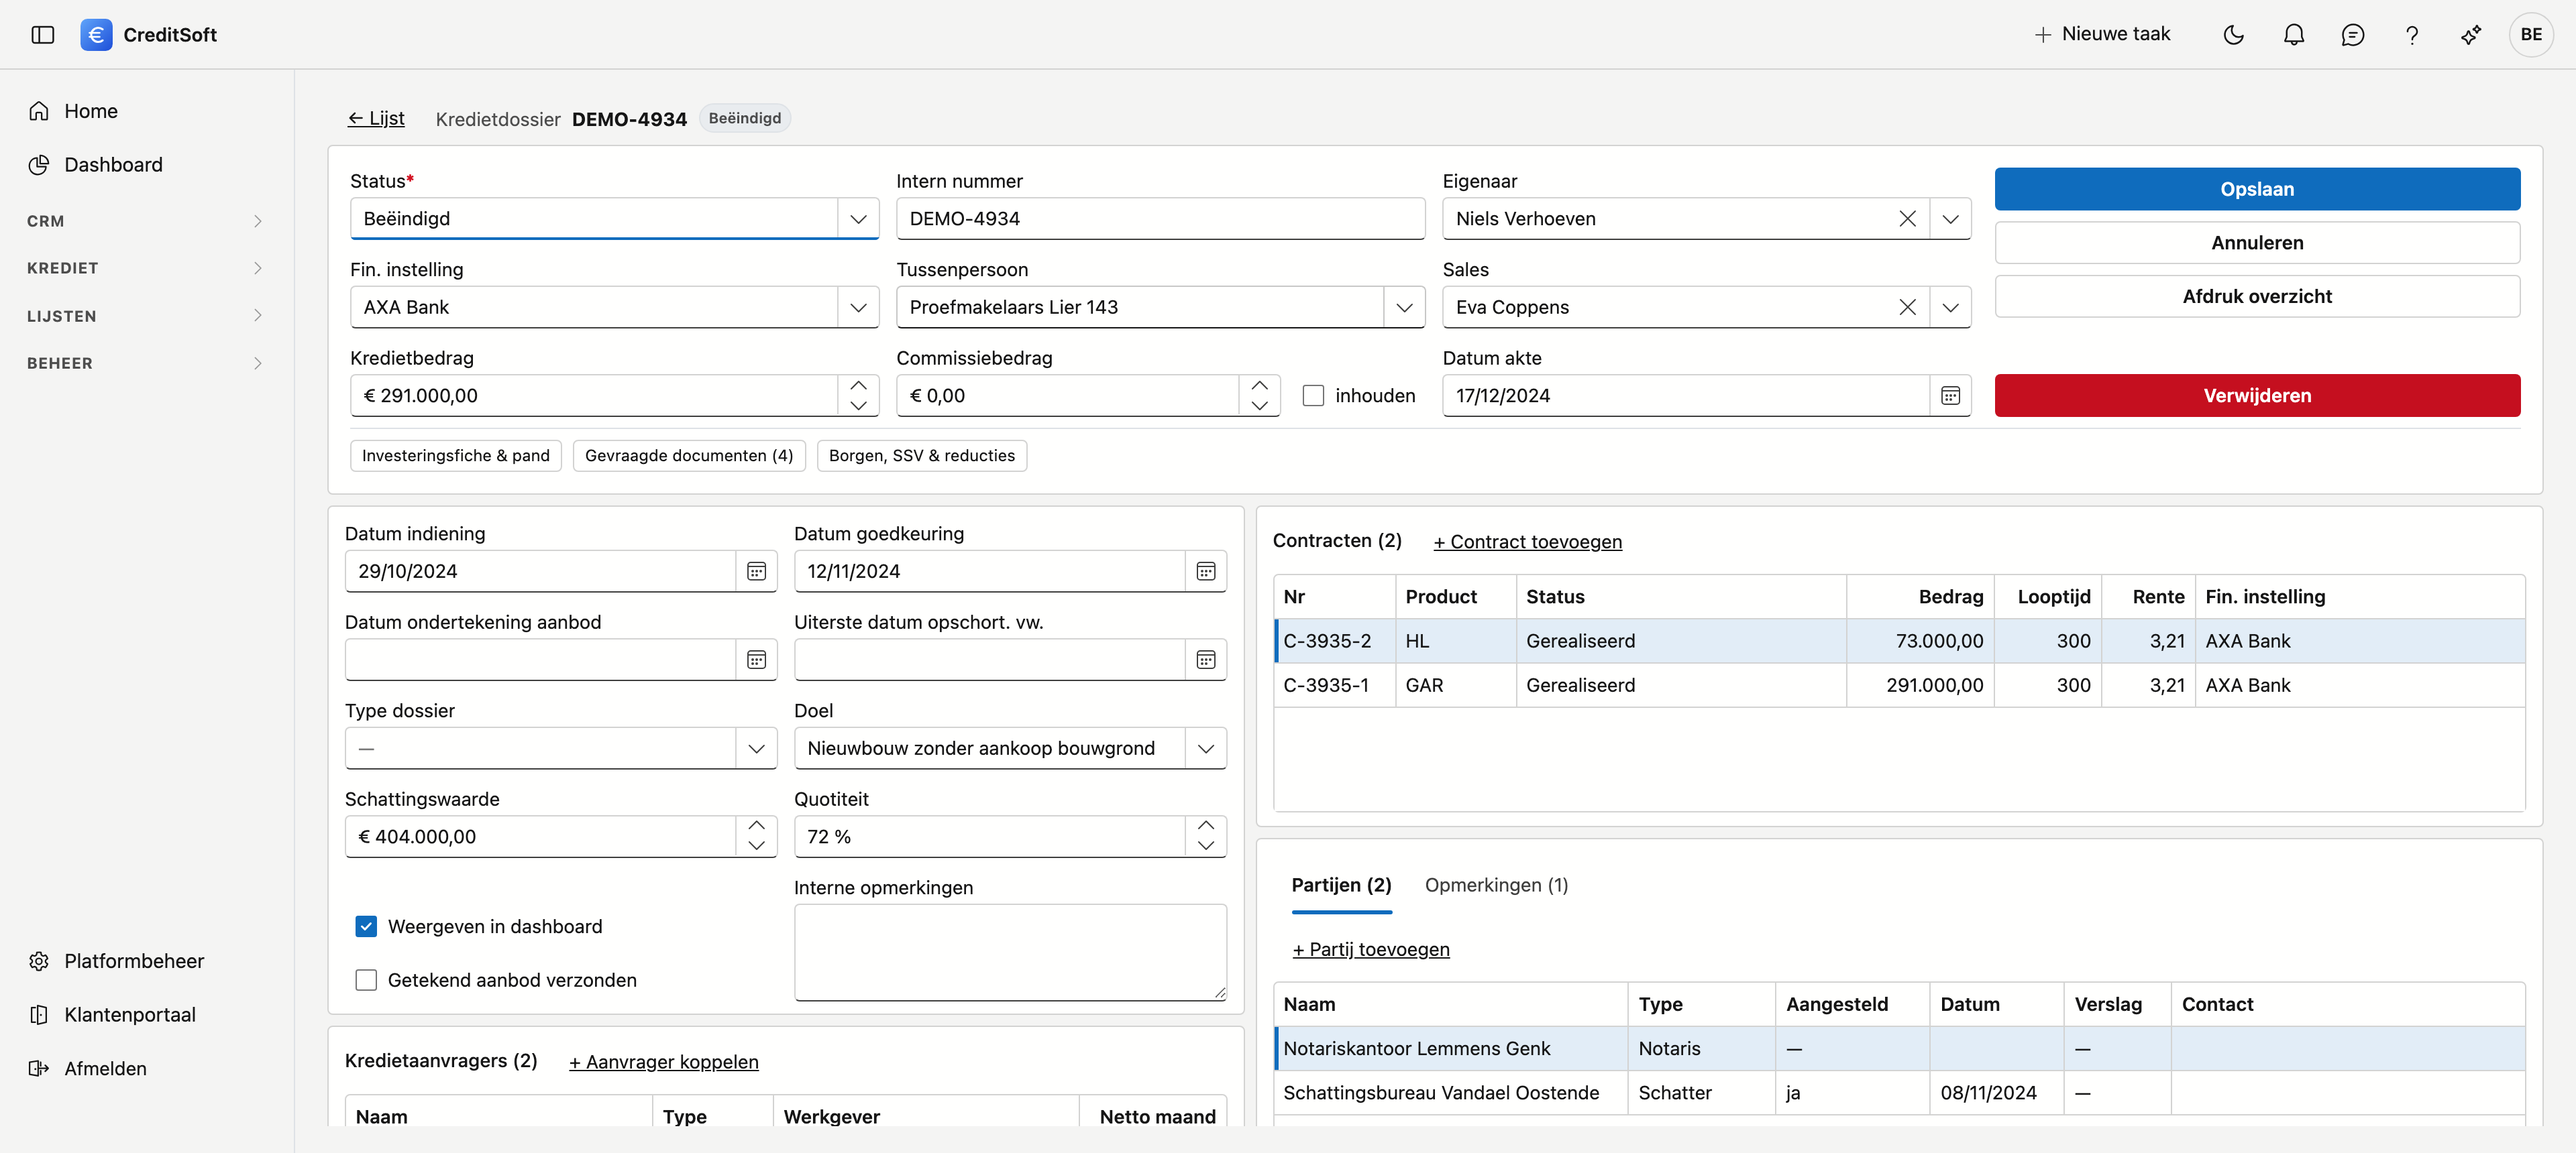
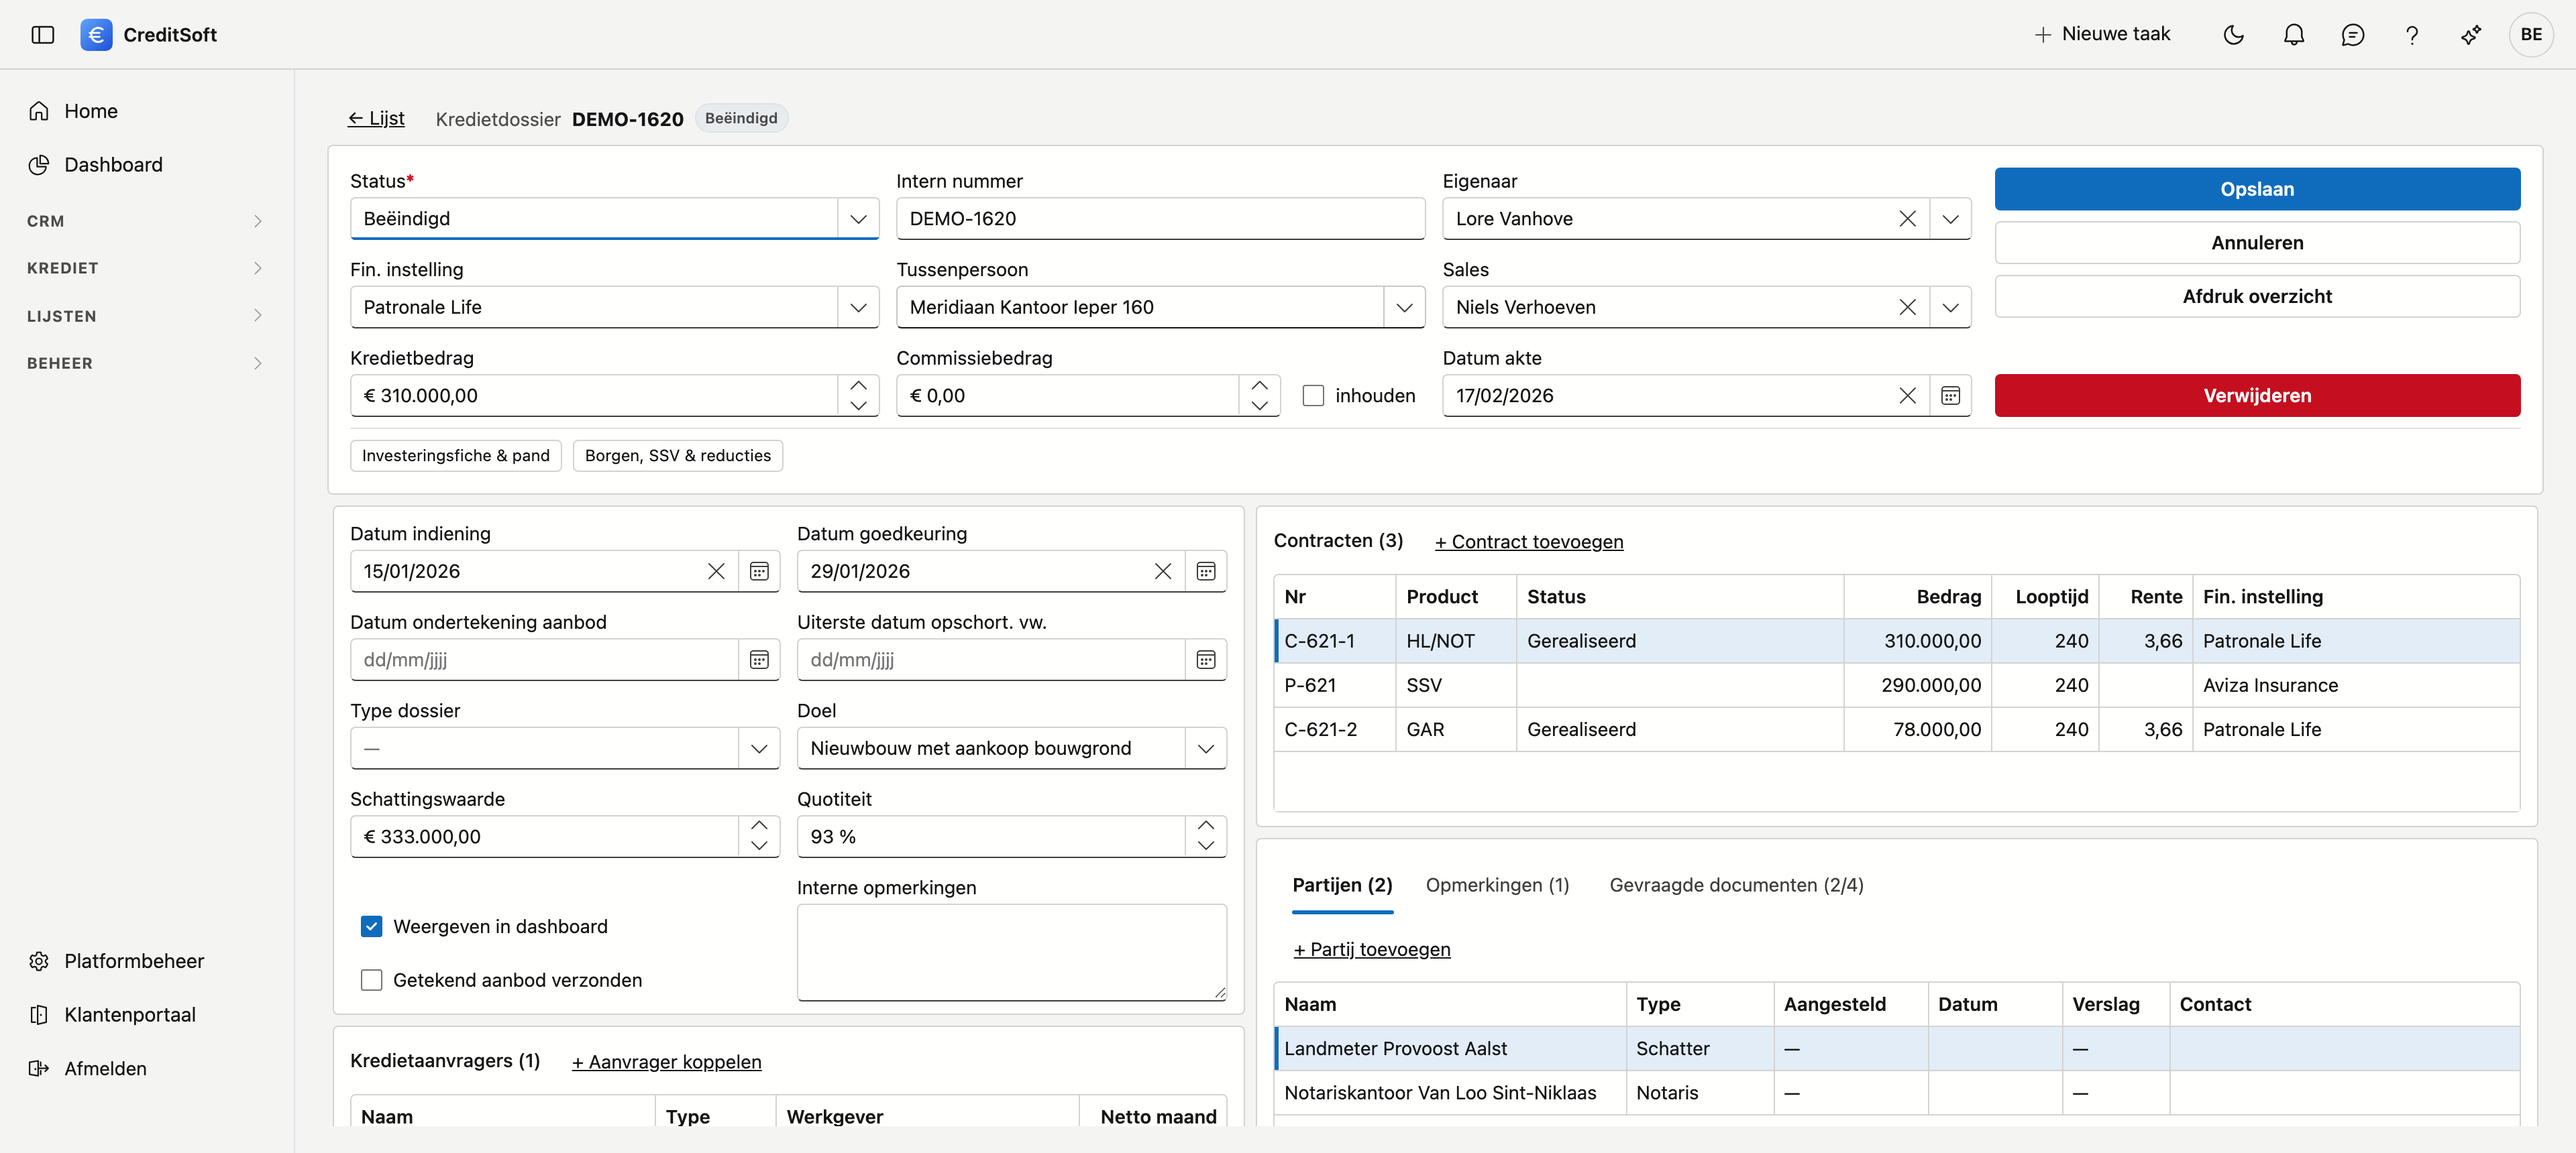
Kredietdossier-handleiding: gevraagde documenten is een tabblad, met uitleg bij de teller
De tekst beschreef nog "Achter Gevraagde documenten… staat de documentchecklist".
Dat is nu het derde tabblad naast Partijen en Opmerkingen.

Wat er bij hoort en er niet stond: dat de titel twee getallen draagt (2/4 = twee
gevalideerd van de vier gevraagde), en vooral dat het LINKSE getal het
gevalideerde aantal is — een stuk dat binnen is maar nog niet nagekeken telt niet
mee als in orde. Dat verschil is precies waarvoor die teller bedoeld is; zonder
die zin leest 4/4 als "alles binnen" in plaats van "alles goedgekeurd".

Plus de verwijzing naar Platformbeheer → Documenttypes, dat vandaag vrijgegeven
is: de lijst waaruit je kiest, beheert het kantoor zelf.

Beeld vernieuwd (NL+FR) en de alt-teksten noemen nu de drie tabbladen.

diff --git a/docs/credit-management/credit-files.fr.md b/docs/credit-management/credit-files.fr.md
@@ -42,9 +42,9 @@ Via le **sélecteur de colonnes**, vous en ajoutez cinq autres : *Crédit demand
 
 ## Le dossier
 
-![Un dossier de crédit ouvert : en haut le bloc principal avec le statut, le numéro interne, le propriétaire et le responsable commercial sous forme de listes déroulantes, l'institution financière, l'intermédiaire, le montant du crédit avec la case Retenir à côté et la date d'acte, et à droite les boutons Enregistrer, Annuler, Aperçu d'impression et Supprimer. En dessous, à gauche les dates, le type de dossier, la valeur estimée et la quotité avec les cases Afficher dans le tableau de bord et Offre signée envoyée ainsi que le champ Remarques internes ; à droite les contrats et en bas les onglets Parties et Remarques.](../images/kredietdossier-fiche-fr.png "Le dossier de crédit : tout sur une seule page"){ .volle-breedte }
+![Un dossier de crédit ouvert : en haut le bloc principal avec le statut, le numéro interne, le propriétaire et le responsable commercial sous forme de listes déroulantes, l'institution financière, l'intermédiaire, le montant du crédit avec la case Retenir à côté et la date d'acte, et à droite les boutons Enregistrer, Annuler, Aperçu d'impression et Supprimer. En dessous, à gauche les dates, le type de dossier, la valeur estimée et la quotité avec les cases Afficher dans le tableau de bord et Offre signée envoyée ainsi que le champ Remarques internes ; à droite les contrats et en bas les onglets Parties, Remarques et Documents demandés avec le compteur 2/4.](../images/kredietdossier-fiche-fr.png "Le dossier de crédit : tout sur une seule page"){ .volle-breedte }
 
-Le dossier tient sur une seule page. En haut, le bloc principal reprend les données dont vous avez le plus souvent besoin ; en dessous, les dates et le bien à gauche, les contrats à droite. En bas à droite, **Parties** et **Remarques** figurent côte à côte sous forme d'onglets — deux listes qui partagent le même emplacement, pour que vous puissiez atteindre l'une et l'autre sans faire défiler la page.
+Le dossier tient sur une seule page. En haut, le bloc principal reprend les données dont vous avez le plus souvent besoin ; en dessous, les dates et le bien à gauche, les contrats à droite. En bas à droite, **Parties**, **Remarques** et **Documents demandés** figurent côte à côte sous forme d'onglets — trois listes qui partagent le même emplacement, pour que vous puissiez les atteindre toutes les trois sans faire défiler la page.
 
 ### Données du dossier
 
@@ -82,7 +82,14 @@ Derrière le bouton **Garants, ASRD & réductions…**, trois listes sont réuni
 
 ### Documents demandés
 
-Derrière **Documents demandés…** se trouve la liste de contrôle des documents de ce dossier. Pour chaque document, vous indiquez s'il est **présent**, **validé** ou **refusé** — en cas de refus, vous notez le motif. Vous voyez ainsi d'un coup d'œil ce qui manque encore.
+Le troisième onglet, à côté de *Parties* et *Remarques* : la liste des pièces que vous attendez de ce client.
+
+Le titre porte **deux chiffres** — *Documents demandés (3/6)* signifie trois validés sur les six que vous demandez. Vous voyez ainsi l'état d'avancement du dossier sans ouvrir l'onglet. Le chiffre de gauche indique ce qui est **validé**, pas ce qui est arrivé : une pièce qu'il vous reste à contrôler ne compte pas comme en ordre.
+
+**Double-cliquez** une ligne pour l'ouvrir. Vous y indiquez si le document est **présent**, **validé** ou **refusé** — en cas de refus, vous notez le motif — et vous y trouvez également les fichiers qui s'y rattachent. Le bouton **Ajouter un document** vous permet d'en ajouter un.
+
+!!! tip "Les documents que vous pouvez demander, c'est vous qui les déterminez"
+    La liste dans laquelle vous choisissez se gère sous [Administration → Types de documents](../beheer/documenttypes.md). Chaque bureau demande d'autres pièces : cette liste est la vôtre.
 
 ### Remarques
 

diff --git a/docs/credit-management/credit-files.md b/docs/credit-management/credit-files.md
@@ -42,9 +42,9 @@ Via **Kolommen kiezen** zet u er nog vijf bij: *Gevraagd krediet*, *Totale inves
 
 ## Het dossier
 
-![Een geopend kredietdossier: bovenaan de kopkaart met status, intern nummer, eigenaar en sales als keuzelijst, de financiële instelling, de tussenpersoon, het kredietbedrag met het vinkje inhouden ernaast en de datum akte, met rechts de knoppen Opslaan, Annuleren, Afdruk overzicht en Verwijderen. Daaronder links de datums, het type dossier, de schattingswaarde en de quotiteit met de vinkjes Weergeven in dashboard en Getekend aanbod verzonden en het veld Interne opmerkingen; rechts de contracten en onderaan de tabbladen Partijen en Opmerkingen.](../images/kredietdossier-fiche.png "Het kredietdossier: alles op één pagina"){ .volle-breedte }
+![Een geopend kredietdossier: bovenaan de kopkaart met status, intern nummer, eigenaar en sales als keuzelijst, de financiële instelling, de tussenpersoon, het kredietbedrag met het vinkje inhouden ernaast en de datum akte, met rechts de knoppen Opslaan, Annuleren, Afdruk overzicht en Verwijderen. Daaronder links de datums, het type dossier, de schattingswaarde en de quotiteit met de vinkjes Weergeven in dashboard en Getekend aanbod verzonden en het veld Interne opmerkingen; rechts de contracten en onderaan de tabbladen Partijen, Opmerkingen en Gevraagde documenten met de teller 2/4.](../images/kredietdossier-fiche.png "Het kredietdossier: alles op één pagina"){ .volle-breedte }
 
-Het dossier is één pagina. Bovenaan staat het kernblok met de gegevens die u het vaakst nodig hebt; daaronder staan links de datums en het pand, rechts de contracten. Onderaan rechts staan **Partijen** en **Opmerkingen** naast elkaar als tabbladen — twee lijsten die dezelfde plaats delen, zodat u niet hoeft te scrollen om ze allebei te bereiken.
+Het dossier is één pagina. Bovenaan staat het kernblok met de gegevens die u het vaakst nodig hebt; daaronder staan links de datums en het pand, rechts de contracten. Onderaan rechts staan **Partijen**, **Opmerkingen** en **Gevraagde documenten** naast elkaar als tabbladen — drie lijsten die dezelfde plaats delen, zodat u niet hoeft te scrollen om ze alle drie te bereiken.
 
 ### Dossiergegevens
 
@@ -82,7 +82,14 @@ Achter de knop **Borgen, SSV & reducties…** vindt u drie lijsten bij elkaar: b
 
 ### Gevraagde documenten
 
-Achter **Gevraagde documenten…** staat de documentchecklist van dit dossier. Per document houdt u bij of het **aanwezig**, **gevalideerd** of **geweigerd** is — bij een weigering noteert u de reden. Zo ziet u in één oogopslag wat er nog ontbreekt.
+Het derde tabblad, naast *Partijen* en *Opmerkingen*: de lijst van stukken die u van deze klant verwacht.
+
+In de titel staan **twee getallen** — *Gevraagde documenten (3/6)* betekent drie gevalideerd van de zes die u vraagt. Zo ziet u hoe ver dit dossier staat zonder het tabblad te openen. Links staat wat **gevalideerd** is, niet wat binnen is: een stuk dat u nog moet nakijken telt niet mee als in orde.
+
+**Dubbelklik** een regel om ze te openen. Daar zet u of het document **aanwezig**, **gevalideerd** of **geweigerd** is — bij een weigering noteert u de reden — en daar vindt u ook de bestanden die erbij horen. Met **Document toevoegen** zet u er een stuk bij.
+
+!!! tip "Welke documenten u kan opvragen, bepaalt u zelf"
+    De lijst waaruit u kiest, beheert u onder [Platformbeheer → Documenttypes](../beheer/documenttypes.md). Elk kantoor vraagt andere stukken op, dus die lijst is van u.
 
 ### Opmerkingen
 

diff --git a/BEELD-MANIFEST.md b/BEELD-MANIFEST.md
@@ -163,7 +163,7 @@
 
 - [x] `kredietdossiers-lijst.png` + `-fr` — de lijst met de drie filters (status, tussenpersoon, datumbereik)
       en de acht standaardkolommen. Geplaatst 17/08/2026.
-- [x] `kredietdossier-fiche.png` + `-fr` — het geopende dossier. **Geplaatst 18/08/2026** (DEMO-4934). De aftoets van dit scherm is op 18/08/2026
+- [x] `kredietdossier-fiche.png` + `-fr` — het geopende dossier. **Geplaatst 18/08/2026**, vernieuwd na de verhuizing van de documentchecklist naar een tabblad (DEMO-1620: eigenaar én sales gevuld, 3 contracten, en de drie tabbladen met de teller 2/4). De aftoets van dit scherm is op 18/08/2026
       gedaan, dus de wachtstand is opgeheven en het beeld **staat nu in `gen-screenshots.mjs`** — draaien
       volstaat. Het moet tonen: de kopkaart met **Eigenaar** en **Sales** als keuzelijst (gevuld, niet leeg),
       het vinkje *inhouden* naast het commissiebedrag, links de datums en het pand met *Interne opmerkingen*
